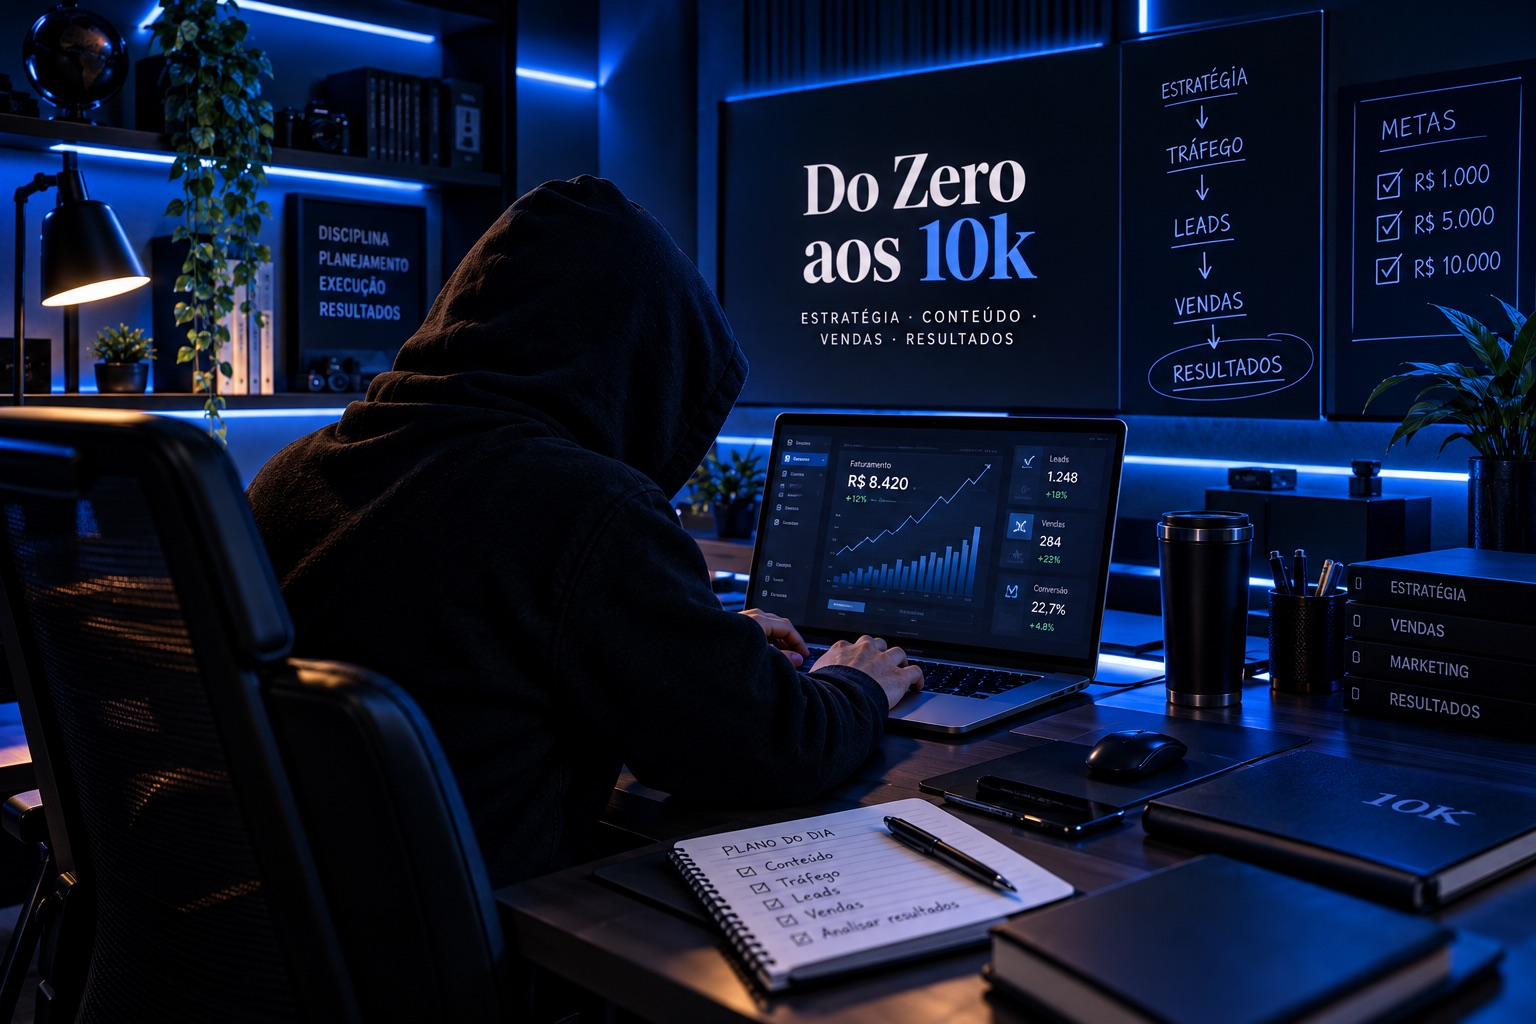
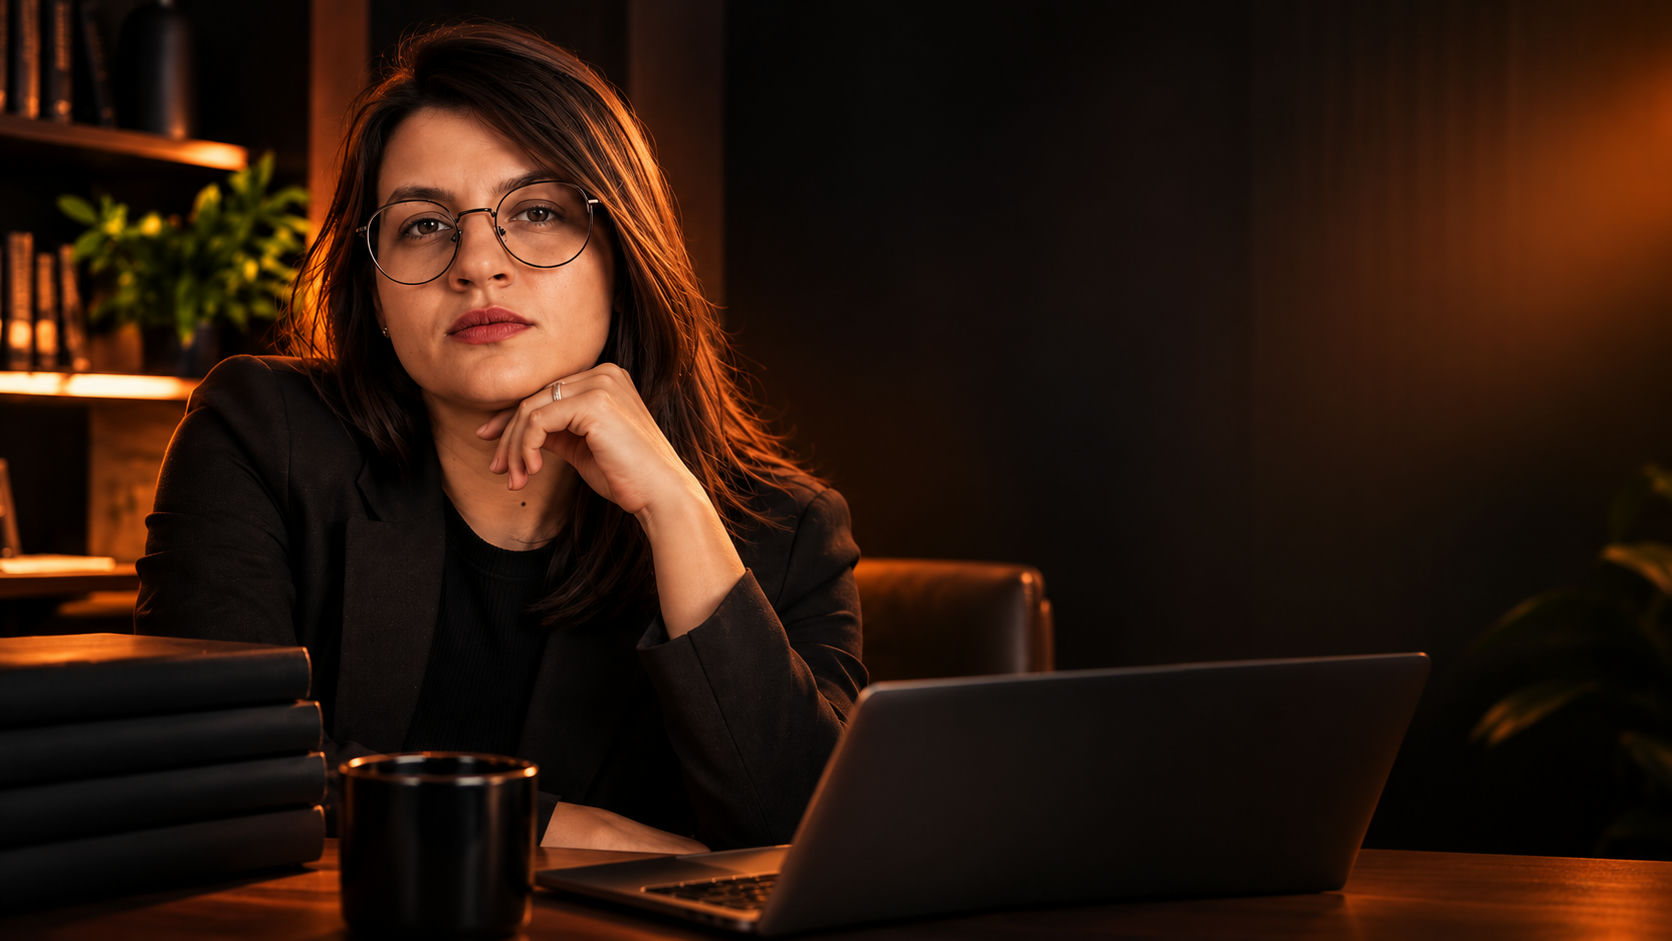
feat(mentoria): nova imagem no card Do Zero aos 10k

diff --git a/lib/landing-content.ts b/lib/landing-content.ts
@@ -206,7 +206,7 @@ export const defaultContent: LandingContent = {
         buttonLabel: "Aplicar para a mentoria",
         href: "/aplicacao",
         coverUrl: "/priscila/zero-10k.jpg",
-        coverPosition: "50% 50%",
+        coverPosition: "32% 40%",
         coverFilter: "none",
       },
       {
